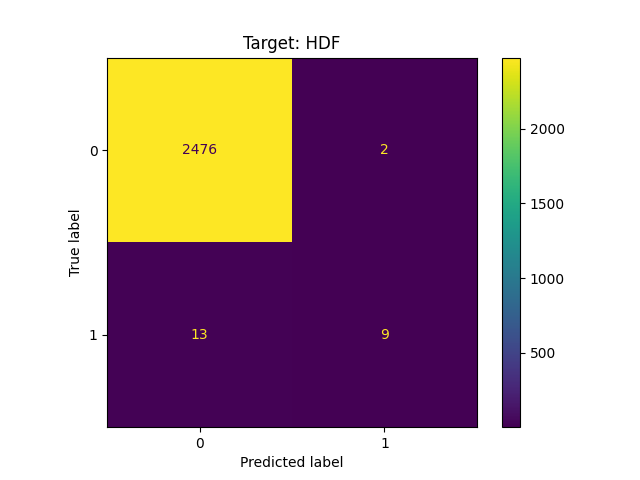
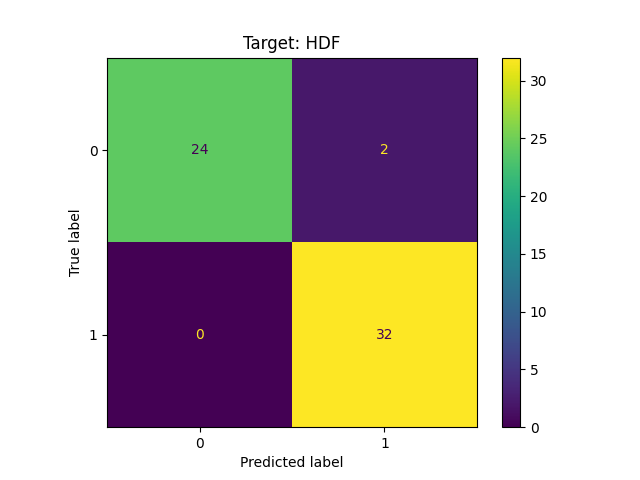
finished mvp streamlit

diff --git a/streamlit_app.py b/streamlit_app.py
@@ -3,6 +3,13 @@ import pandas as pd
 import streamlit as st
 
 def display_classification(models: dict, sensor_data: pd.DataFrame):
+    """
+    Classifies the given sensor data using the given models and displays the type of failure that is occuring
+
+    params:
+        models: dict - the dictionary of models to be used for classification
+        sensor_data: pd.DataFrame - the sensor data to feed the models
+    """
     failure_descriptions = {
         "TWF": "Tool wear failure",
         "HDF": "Heat dissipation failure",
@@ -33,20 +40,29 @@ if __name__ == '__main__':
     col1, col2 = st.columns(2, gap="large")
 
     with col1:
-        air_temp = st.number_input("Air temperature [K]", value=295.2)
+        tool_quality = st.selectbox("Tool quality", ["Low", "Medium", "High"])
+        sensor_data["L"] = [1 if tool_quality == "Low" else 0]
+        sensor_data["M"] = [1 if tool_quality == "Medium" else 0]
+
+        air_temp = st.number_input("Air temperature [K]", value=295.2, min_value=0.0)
         sensor_data["Air temperature [K]"] = [air_temp]
 
-        proc_temp = st.number_input("Process temperature [K]", value=308.4)
+        proc_temp = st.number_input(
+            "Process temperature [K]", value=308.4, min_value=0.0)
         sensor_data["Process temperature [K]"] = [proc_temp]
 
-        rot_speed = st.number_input("Rotational speed [rpm]", value=1310)
+        rot_speed = st.number_input(
+            "Rotational speed [rpm]", value=1310, min_value=0)
         sensor_data["Rotational speed [rpm]"] = [rot_speed]
 
-        torque = st.number_input("Torque [Nm]", value=61.0)
+        torque = st.number_input("Torque [Nm]", value=61.0, min_value=0.0)
         sensor_data["Torque [Nm]"] = [torque]
 
-        tool_wear = st.number_input("Tool wear [min]", value=189)
+        tool_wear = st.number_input(
+            "Tool wear [min]", value=189, min_value=0)
         sensor_data["Tool wear [min]"] = [tool_wear]
+
+
 
     with col2:
         display_classification(models, sensor_data)

diff --git a/src/model_training.py b/src/model_training.py
@@ -61,7 +61,6 @@ def test_model(model: LogisticRegression, X: pd.DataFrame, y: pd.DataFrame | pd.
     trained_model, X_train, y_train, X_test, y_test = train_model(model, 
                                                                   X, 
                                                                   y)
-
     for train_set, val_set in kf.split(X_train):
         X_train_split, y_train_split = X_train.iloc[train_set], y_train.iloc[train_set]
         X_val_split, y_val_split = X_train.iloc[val_set], y_train.iloc[val_set]
@@ -77,6 +76,7 @@ def test_model(model: LogisticRegression, X: pd.DataFrame, y: pd.DataFrame | pd.
     trained_model.fit(X_train, y_train)
 
     # Create and save confusion matrix for the model
+    print(f"y_test: {y_test.value_counts()}")
     ConfusionMatrixDisplay(confusion_matrix(
         y_test, trained_model.predict(X_test))).plot()
     plt.title(f"Target: {y.name}")

diff --git a/main.py b/main.py
@@ -14,7 +14,7 @@ if __name__ == '__main__':
     models = {
         "Machine failure": "undersample",
         "TWF": "undersample",
-        "HDF": "oversample",
+        "HDF": "undersample",
         "PWF": "oversample",
         "OSF": "oversample",
     }
